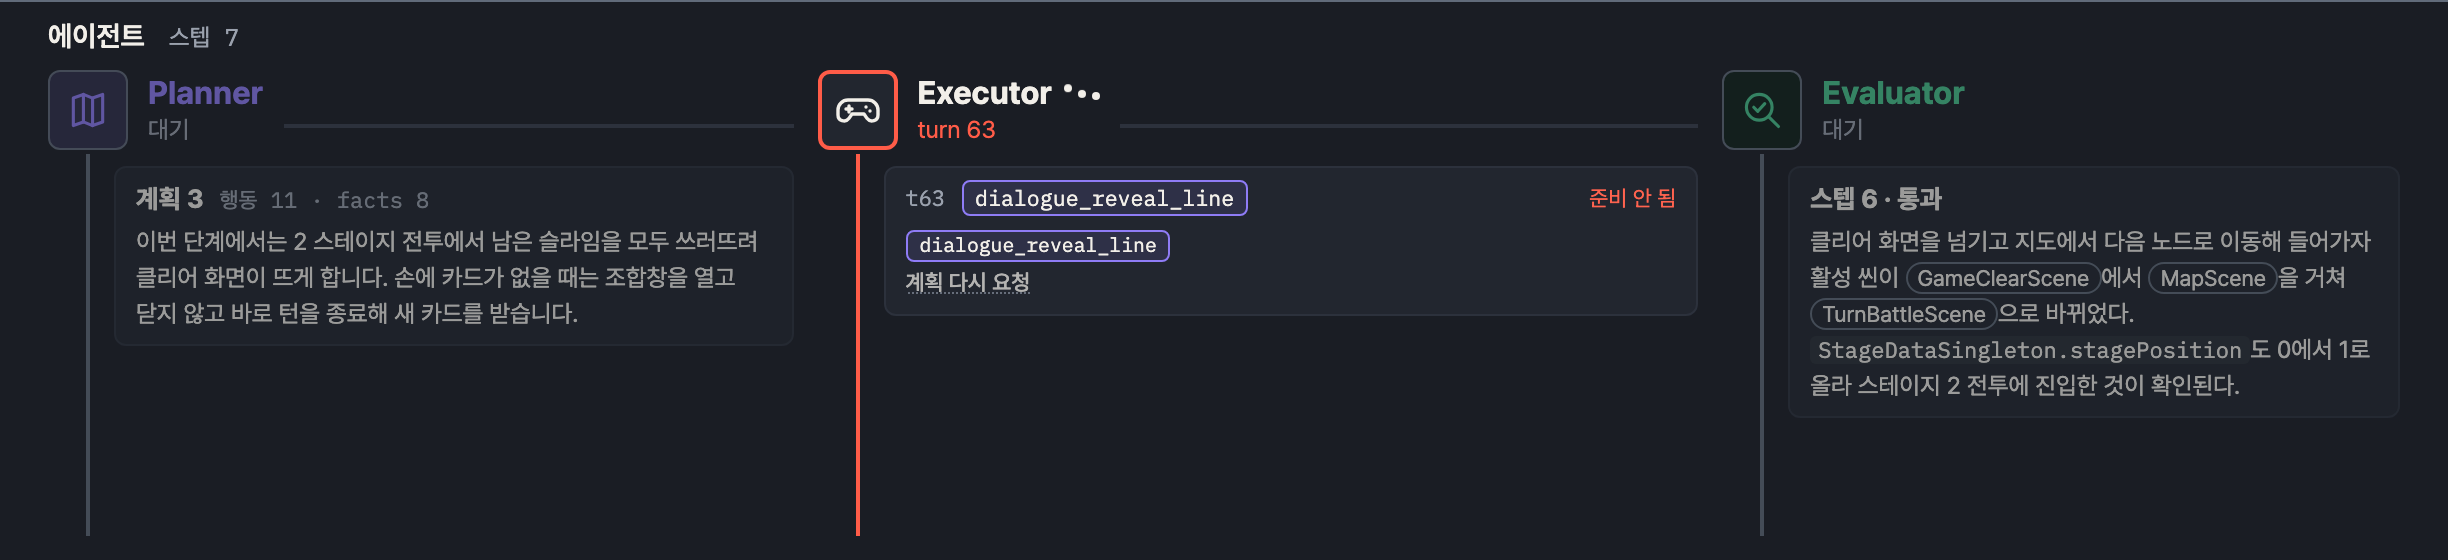
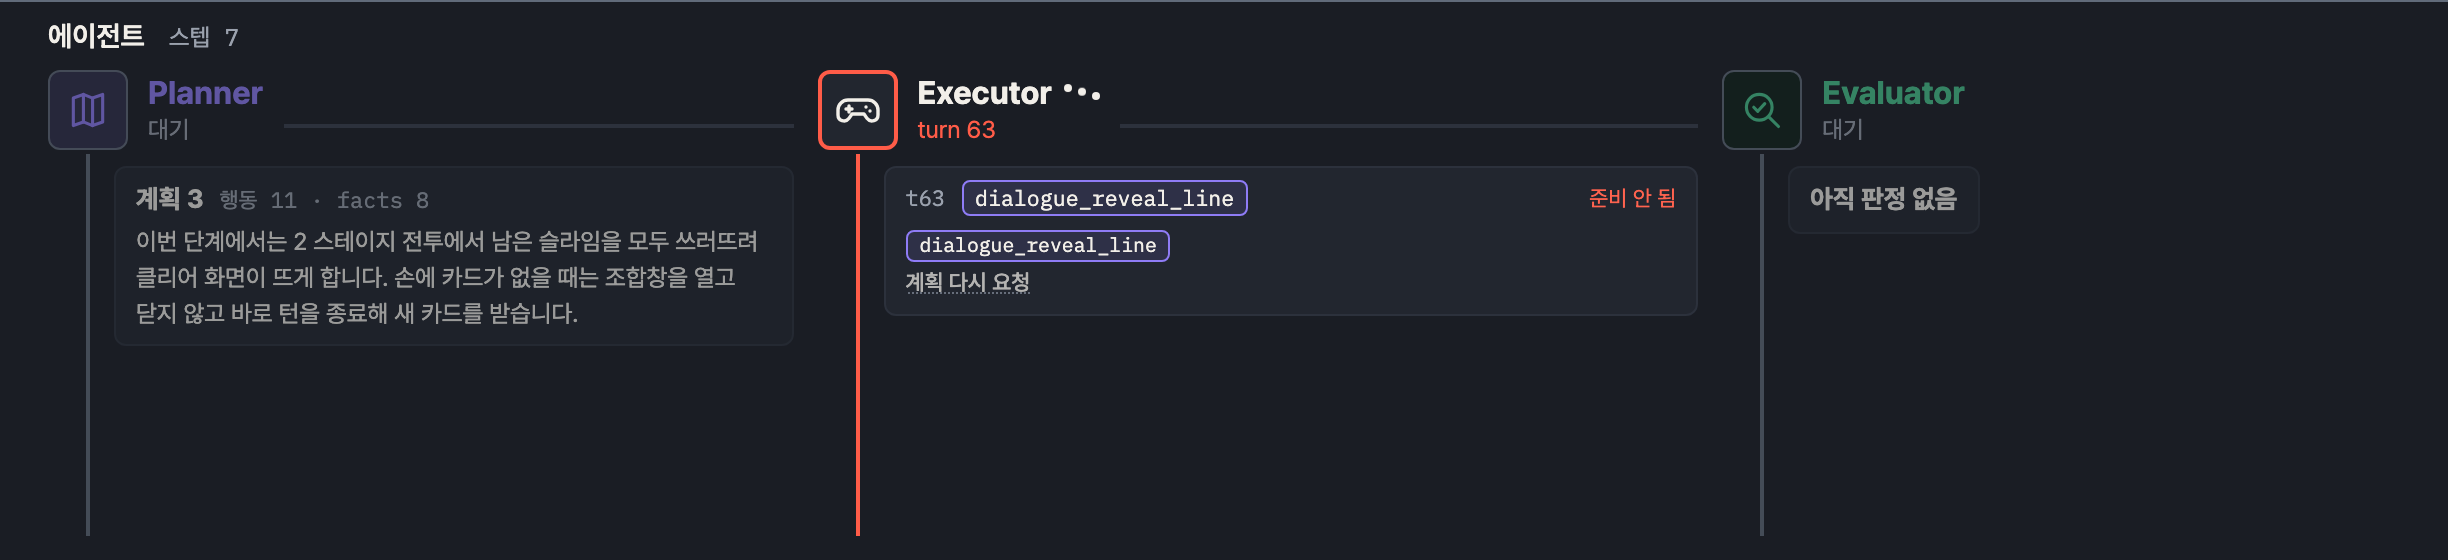
fix(qa): 스텝 전환 시 에이전트 창 비우기
새 step 이 시작하면 앞 step 의 판정도 지운다. 화면 캡처를 다시 찍고 새 step 상태를 더한다.

Changed region(s): [[0.7141, 0.3339, 0.9624, 0.6375], [0.7141, 0.6679, 0.9314, 0.7286]]

diff --git a/src/qa/agentDockState.ts b/src/qa/agentDockState.ts
@@ -166,9 +166,9 @@ export function deriveAgentDock(logs: readonly QaLog[], live: boolean): AgentDoc
     if (!isAgentLog(log)) continue
     const payload = asRecord(log.payload) ?? {}
     const step = stepNumber(payload.step)
-    // 새 step 이면 앞 step 의 계획은 끝난 것이다. 판정은 다음 판정까지 남긴다.
+    // 새 step 이면 앞 step 의 계획과 판정은 끝난 것이라 창을 비운다.
     if (step !== null && !isVerdict(log) && step !== state.step) {
-      state = { ...EMPTY, step, verdict: state.verdict }
+      state = { ...EMPTY, step }
       reads = null
     }
     if (isVerdict(log)) {
